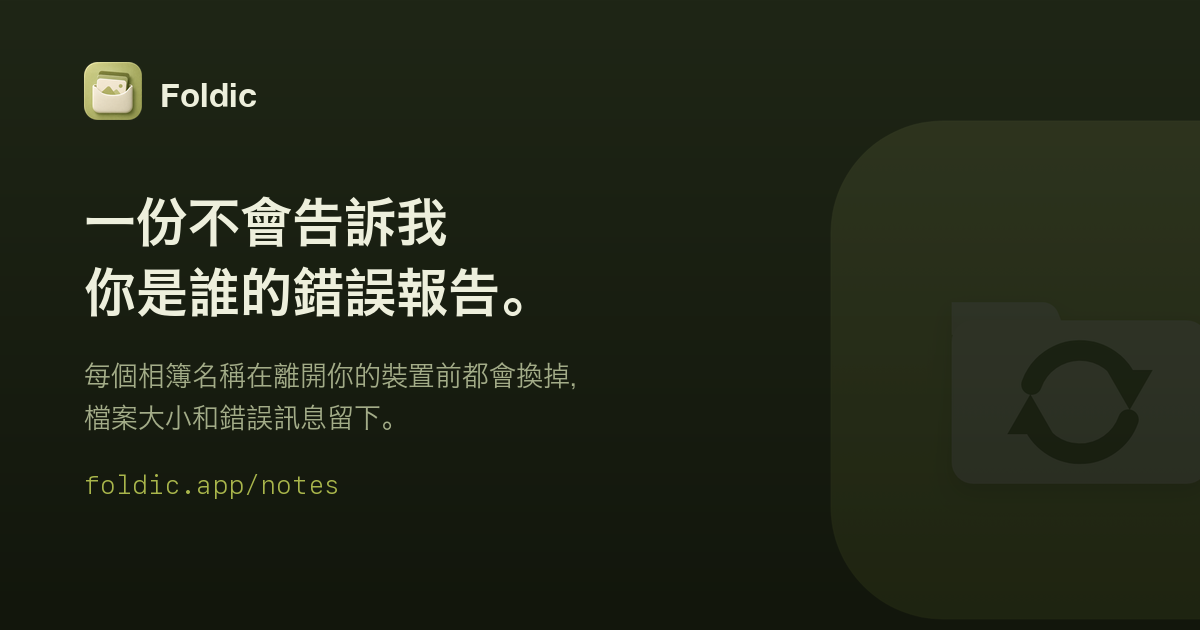
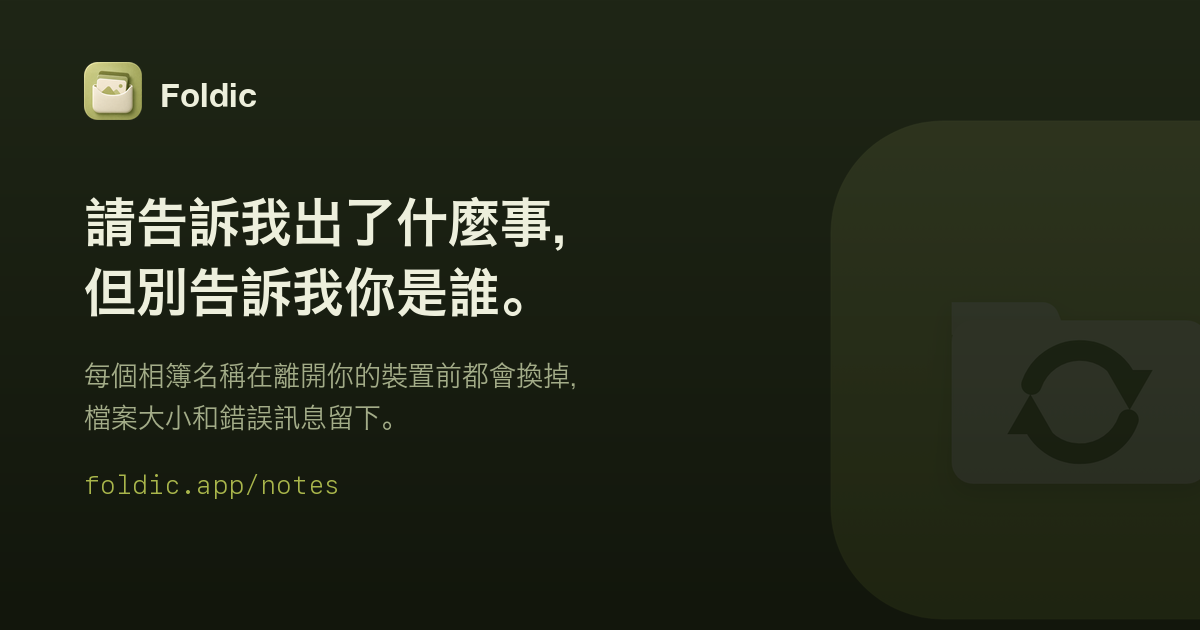
Note: retitle the zh version, and meet the ogcard requirements
zh title is now 「請告訴我出了什麼事,但別告訴我你是誰」 — the tension as two clauses,
which is closer to how the other notes on this site are titled than the
descriptive form it replaces. Changed in the article, the switcher table, the
share page and the notes index; the other three languages are untouched.

The card was regenerated with the headline sized by measurement rather than by
eye, per the skill: a card is only ever seen at final size, so an overflow is
invisible until it is on somebody's timeline. Verified 1200x630, mode RGB, and
zero bright pixels past the text boundary.

Five tags were missing on all four pages, and one of them would have silently
defeated the retitle: og:image now carries ?v=<md5[:8]>, because a scraper caches
by URL and a corrected card never reaches Twitter or Facebook unless the URL
changes with it. Also added og:site_name, territory-qualified og:locale,
og:image:alt -- the only description a screen reader gets in a feed -- and
twitter:title/description.

Changed region(s): [[0.0617, 0.3016, 0.4933, 0.3921], [0.0617, 0.4222, 0.4317, 0.5127]]

diff --git a/notes/nothing-about-you/index.html b/notes/nothing-about-you/index.html
@@ -8,12 +8,17 @@
   <meta property="og:title" content="A bug report that tells me nothing about you">
   <meta property="og:description" content="Apple's privacy model means I cannot go and look at what happened on your device. So a report has to come from you — and the question becomes what that report is allowed to know.">
   <meta property="og:type" content="article">
-  <meta property="og:image" content="https://foldic.app/notes/nothing-about-you/og-en.png">
+  <meta property="og:image" content="https://foldic.app/notes/nothing-about-you/og-en.png?v=1508deb2">
   <meta property="og:image:width" content="1200">
   <meta property="og:image:height" content="630">
-  <meta name="twitter:image" content="https://foldic.app/notes/nothing-about-you/og-en.png">
+  <meta name="twitter:image" content="https://foldic.app/notes/nothing-about-you/og-en.png?v=1508deb2">
   <meta property="og:url" content="https://foldic.app/notes/nothing-about-you/">
   <meta name="twitter:card" content="summary_large_image">
+  <meta property="og:site_name" content="Foldic">
+  <meta property="og:locale" content="en_US">
+  <meta property="og:image:alt" content="Foldic sharing card: the headline “A bug report that tells me nothing about you” over the app's dark green gradient.">
+  <meta name="twitter:title" content="A bug report that tells me nothing about you">
+  <meta name="twitter:description" content="Apple's privacy model means I cannot go and look at what happened on your device. So a report has to come from you — and the question becomes what that report is allowed to know.">
   <link rel="icon" type="image/png" href="/icon.png">
   <link rel="shortcut icon" href="/favicon.ico">
   <style>
@@ -177,7 +182,7 @@
   <!-- ============================== ZH ============================== -->
   <main data-lang-page="zh" hidden>
     <a class="back" href="/notes/">← 開發筆記</a>
-    <h1>一份不會告訴我你是誰的錯誤報告</h1>
+    <h1>請告訴我出了什麼事，但別告訴我你是誰</h1>
     <p class="byline">2026 年 8 月 22 日 · Foldic 開發筆記</p>
 
     <p class="lede">Apple 的隱私模型嚴格得讓我心安:我沒有辦法伸手進你的裝置去看發生了什麼。也就是說,Foldic 出錯的時候,我唯一能知道的途徑是你告訴我。這把一個舒服的問題換成了一個不舒服的問題——不是「我怎麼蒐集診斷資訊」,而是「一份診斷報告可以知道關於你的什麼?」</p>
@@ -316,7 +321,7 @@
       var HTML_LANG = { en: "en", zh: "zh-Hant", ja: "ja", ko: "ko" };
       var TITLES = {
           en: "A bug report that tells me nothing about you",
-          zh: "一份不會告訴我你是誰的錯誤報告",
+          zh: "請告訴我出了什麼事，但別告訴我你是誰",
           ja: "あなたのことを何も伝えないバグレポート",
           ko: "당신에 대해 아무것도 알려주지 않는 버그 리포트",
         };

diff --git a/notes/nothing-about-you/zh/index.html b/notes/nothing-about-you/zh/index.html
@@ -3,21 +3,26 @@
 <head>
   <meta charset="utf-8">
   <meta name="viewport" content="width=device-width, initial-scale=1">
-  <title>一份不會告訴我你是誰的錯誤報告 — Foldic Notes</title>
+  <title>請告訴我出了什麼事，但別告訴我你是誰 — Foldic Notes</title>
   <meta name="robots" content="noindex">
   <link rel="canonical" href="https://foldic.app/notes/nothing-about-you/">
-  <meta property="og:title" content="一份不會告訴我你是誰的錯誤報告">
+  <meta property="og:title" content="請告訴我出了什麼事，但別告訴我你是誰">
   <meta property="og:description" content="在 Apple 的隱私模型下,我無法主動去看你的裝置上發生了什麼。所以報告必須由你送出——問題於是變成:那份報告可以知道什麼?">
   <meta property="og:type" content="article">
-  <meta property="og:image" content="https://foldic.app/notes/nothing-about-you/og-zh.png">
+  <meta property="og:image" content="https://foldic.app/notes/nothing-about-you/og-zh.png?v=bcebbf39">
   <meta property="og:image:width" content="1200">
   <meta property="og:image:height" content="630">
   <meta name="twitter:card" content="summary_large_image">
-  <meta name="twitter:image" content="https://foldic.app/notes/nothing-about-you/og-zh.png">
+  <meta property="og:site_name" content="Foldic">
+  <meta property="og:locale" content="zh_TW">
+  <meta property="og:image:alt" content="Foldic 分享卡:深綠漸層上的標題「請告訴我出了什麼事,但別告訴我你是誰」。">
+  <meta name="twitter:title" content="請告訴我出了什麼事，但別告訴我你是誰">
+  <meta name="twitter:description" content="在 Apple 的隱私模型下,我無法主動去看你的裝置上發生了什麼。所以報告必須由你送出——問題於是變成:那份報告可以知道什麼?">
+  <meta name="twitter:image" content="https://foldic.app/notes/nothing-about-you/og-zh.png?v=bcebbf39">
   <meta property="og:url" content="https://foldic.app/notes/nothing-about-you/zh/">
   <script>location.replace("/notes/nothing-about-you/?lang=zh");</script>
 </head>
 <body>
-  <p><a href="/notes/nothing-about-you/?lang=zh">一份不會告訴我你是誰的錯誤報告</a></p>
+  <p><a href="/notes/nothing-about-you/?lang=zh">請告訴我出了什麼事，但別告訴我你是誰</a></p>
 </body>
 </html>

diff --git a/notes/nothing-about-you/ja/index.html b/notes/nothing-about-you/ja/index.html
@@ -9,11 +9,16 @@
   <meta property="og:title" content="あなたのことを何も伝えないバグレポート">
   <meta property="og:description" content="Apple のプライバシーモデルでは、開発者があなたの端末で何が起きたかを見に行くことはできません。だからレポートはあなたから送られる必要があり、問いは「そのレポートは何を知ってよいのか」になります。">
   <meta property="og:type" content="article">
-  <meta property="og:image" content="https://foldic.app/notes/nothing-about-you/og-ja.png">
+  <meta property="og:image" content="https://foldic.app/notes/nothing-about-you/og-ja.png?v=35ebc2d2">
   <meta property="og:image:width" content="1200">
   <meta property="og:image:height" content="630">
   <meta name="twitter:card" content="summary_large_image">
-  <meta name="twitter:image" content="https://foldic.app/notes/nothing-about-you/og-ja.png">
+  <meta property="og:site_name" content="Foldic">
+  <meta property="og:locale" content="ja_JP">
+  <meta property="og:image:alt" content="Foldic のシェアカード:深い緑のグラデーションに「あなたを何も語らないバグレポート」の見出し。">
+  <meta name="twitter:title" content="あなたのことを何も伝えないバグレポート">
+  <meta name="twitter:description" content="Apple のプライバシーモデルでは、開発者があなたの端末で何が起きたかを見に行くことはできません。だからレポートはあなたから送られる必要があり、問いは「そのレポートは何を知ってよいのか」になります。">
+  <meta name="twitter:image" content="https://foldic.app/notes/nothing-about-you/og-ja.png?v=35ebc2d2">
   <meta property="og:url" content="https://foldic.app/notes/nothing-about-you/ja/">
   <script>location.replace("/notes/nothing-about-you/?lang=ja");</script>
 </head>

diff --git a/notes/nothing-about-you/ko/index.html b/notes/nothing-about-you/ko/index.html
@@ -9,11 +9,16 @@
   <meta property="og:title" content="당신에 대해 아무것도 알려주지 않는 버그 리포트">
   <meta property="og:description" content="Apple의 프라이버시 모델에서는 개발자가 당신의 기기에서 무슨 일이 있었는지 보러 갈 수 없습니다. 그래서 리포트는 당신이 보내야 하고, 질문은 '그 리포트가 무엇을 알아도 되는가'가 됩니다.">
   <meta property="og:type" content="article">
-  <meta property="og:image" content="https://foldic.app/notes/nothing-about-you/og-ko.png">
+  <meta property="og:image" content="https://foldic.app/notes/nothing-about-you/og-ko.png?v=1c72f27e">
   <meta property="og:image:width" content="1200">
   <meta property="og:image:height" content="630">
   <meta name="twitter:card" content="summary_large_image">
-  <meta name="twitter:image" content="https://foldic.app/notes/nothing-about-you/og-ko.png">
+  <meta property="og:site_name" content="Foldic">
+  <meta property="og:locale" content="ko_KR">
+  <meta property="og:image:alt" content="Foldic 공유 카드: 짙은 녹색 그라데이션 위에 '당신에 대해 아무것도 말하지 않는 리포트'라는 제목.">
+  <meta name="twitter:title" content="당신에 대해 아무것도 알려주지 않는 버그 리포트">
+  <meta name="twitter:description" content="Apple의 프라이버시 모델에서는 개발자가 당신의 기기에서 무슨 일이 있었는지 보러 갈 수 없습니다. 그래서 리포트는 당신이 보내야 하고, 질문은 '그 리포트가 무엇을 알아도 되는가'가 됩니다.">
+  <meta name="twitter:image" content="https://foldic.app/notes/nothing-about-you/og-ko.png?v=1c72f27e">
   <meta property="og:url" content="https://foldic.app/notes/nothing-about-you/ko/">
   <script>location.replace("/notes/nothing-about-you/?lang=ko");</script>
 </head>

diff --git a/notes/index.html b/notes/index.html
@@ -124,7 +124,7 @@
       </a>
       <a class="note" href="/notes/nothing-about-you/">
         <div class="when">2026 年 8 月 22 日</div>
-        <div class="title">一份不會告訴我你是誰的錯誤報告</div>
+        <div class="title">請告訴我出了什麼事，但別告訴我你是誰</div>
         <p class="blurb">Apple 不讓我去看你的裝置,所以報告必須由你送出——真正的問題於是變成:那份報告可以知道什麼?每個相簿名稱在離開之前都會換成代號,而檔案大小、時間和錯誤訊息留下。</p>
       </a>
       <a class="note" href="/notes/one-flipped-byte/">
